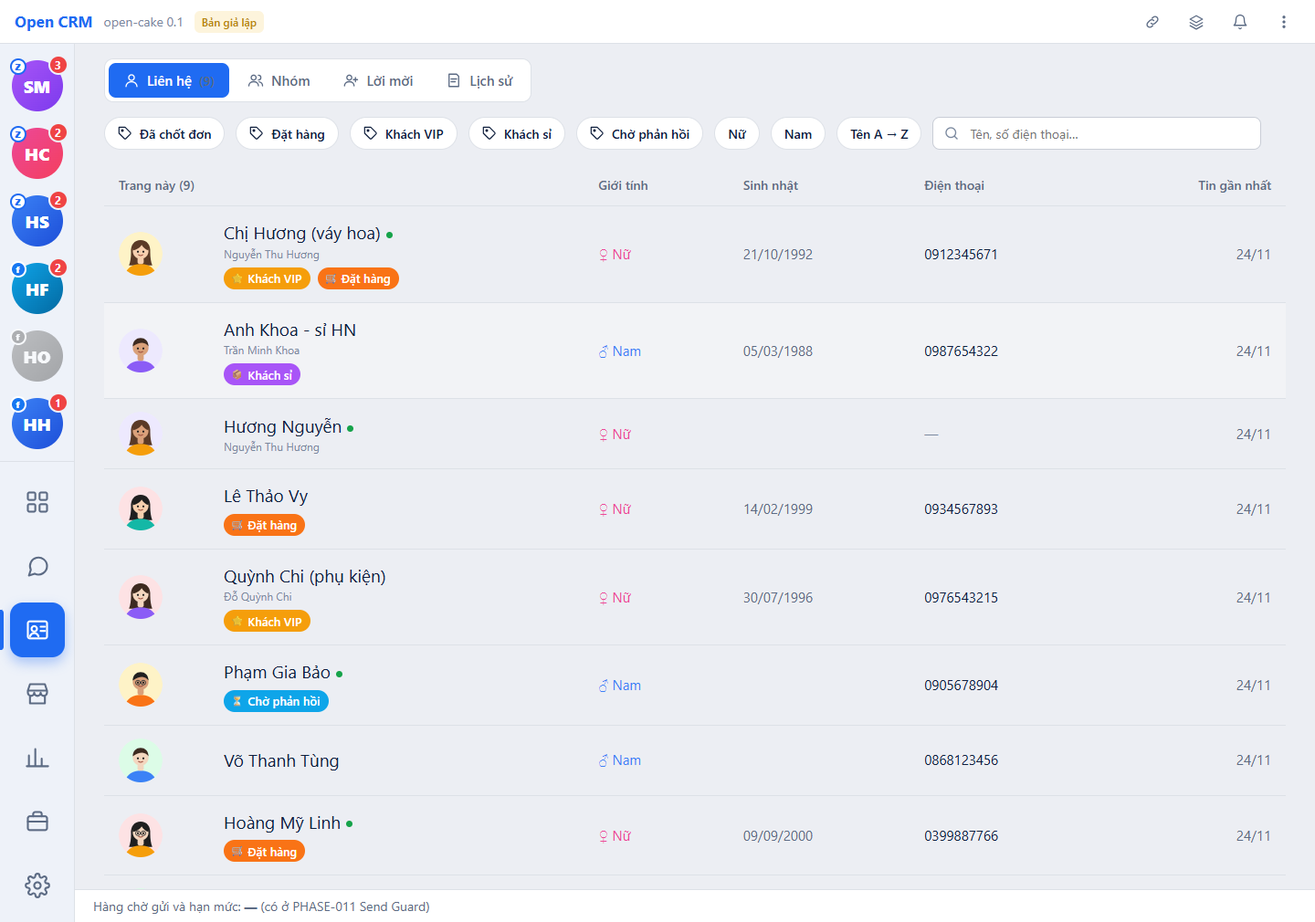
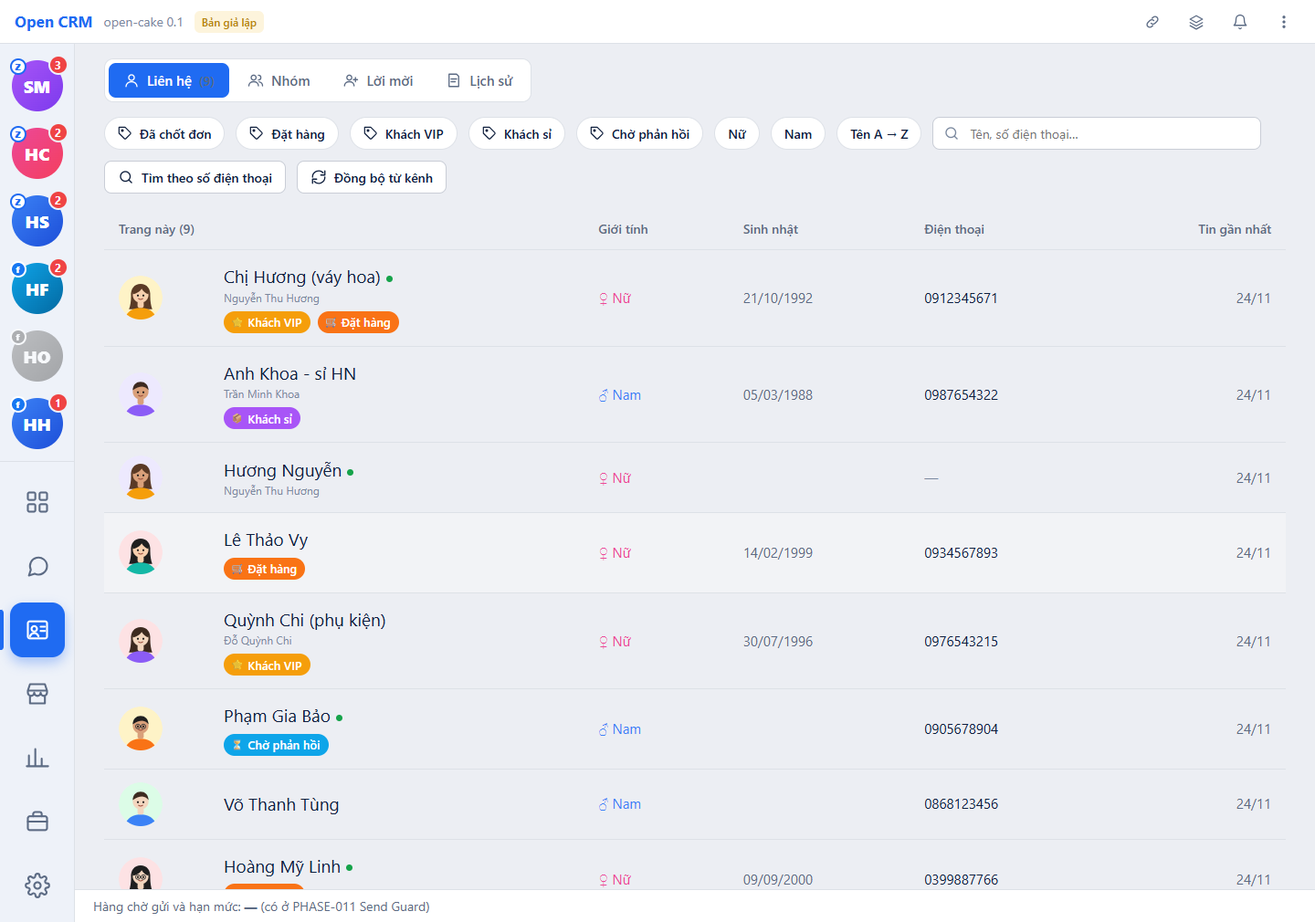
feat(KN K2b-3 · open-cake): lệnh kênh 0.2 — thu hồi, thả tim, đồng bộ danh bạ, tìm theo SĐT
- bizcity_channel_command@1 0.2 (chỉ thêm): message.revoke, reaction.add, directory.sync, contact.find; target.externalMessageId, options.reaction / phone
- 4 action (cake.message.revoke / react, cake.directory.sync, cake.contact.find) qua hàng chờ channel_commands — cùng gửi lại / bỏ cuộc với message.send; cùng khoá ⇒ không gửi trùng
- thu hồi chỉ tin của shop đã có mã kênh; xác nhận bằng touch revoked quay về (sổ giữ nguyên)
- giao diện: menu ❤ / Thu hồi trên tin (xác nhận trong sheet), Danh bạ › Đồng bộ từ kênh / Tìm theo SĐT; giả lập cùng luật
- risk thu hồi = medium (ngang gửi tin) ⇒ không nâng quyền cake:inbox-lap; bizcity.authz.json không đổi
- 156/156 test, selfcheck 9/9; ảnh app-kn-tin-thao-tac / kn-thu-hoi-xac-nhan / kn-dong-bo-danh-ba

diff --git a/apps/api/src/care/channel-ops.ts b/apps/api/src/care/channel-ops.ts
@@ -1,0 +1,58 @@
+// Copyright (c) 2026 Johnny Chu (Chu Hoàng Anh) / BizCity. GPL-2.0-or-later. See LICENSE.
+// @bizcity-layer api
+// [2026-11-26 08:44 PM Johnny Chu - Chu Hoàng Anh] KN K2b-3 — năng lực kênh đủ (25-KET-NOI-KENH §3b): thu hồi tin của shop, thả cảm xúc, đồng bộ danh bạ, tìm người theo SĐT.
+//   Mỗi việc = một lệnh bizcity_channel_command@1 0.2 vào hàng chờ channel_commands (cùng dispatch / gửi lại / bỏ cuộc với message.send). Không đổi dữ liệu tại chỗ:
+//   kết quả thật về bằng bizcity_touch@1 — thu hồi (content.type revoked), hồ sơ / nhóm (profile.updated, thread.updated backfill) — kernel đã xử lý (K2b-1).
+import type { Db } from '@bizcity/platform/db/client';
+import { ChannelCommandSchema, type ChannelCommand } from '@open-cake/contracts';
+import { failure, type Ctx, type Handler } from '../runtime.js';
+import { notifyChanged } from '../stream.js';
+import { assertConversationVisible } from './scope.js';
+import { CAPS, accountOf, dispatch, hub } from './send.js';
+
+type Acc = Awaited<ReturnType<typeof accountOf>>;
+const unix = () => Math.floor(Date.now() / 1000);
+
+/** Xếp một lệnh vào hàng chờ + gửi ngay. Cùng khoá đã có ⇒ trả trạng thái cũ, không gửi lần hai (Hub / máy kết nối chống trùng theo khoá). */
+async function queueCommand(ctx: Ctx, acc: Acc, operation: ChannelCommand['operation'], key: string, target: Partial<ChannelCommand['target']>, options: Partial<ChannelCommand['options']>) {
+  const { tx, tenantId } = ctx;
+  hub(); // chưa nối Hub ⇒ NOT_READY ngay
+  const old = await tx.selectFrom('channel_commands').select(['state']).where('tenant_id', '=', tenantId).where('command_key', '=', key).executeTakeFirst();
+  if (old) return { commandKey: key, state: old.state as 'accepted' };
+  const body = ChannelCommandSchema.parse({
+    contract: 'bizcity_channel_command@1', operation, idempotencyKey: key, channel: acc.channel,
+    channelAccount: { cellRef: acc.cell_ref, externalAccountId: acc.external_account_id }, target: { externalThreadId: null, anchor: null, ...target },
+    content: { type: 'none', text: null, attachments: [] }, options: { messageTag: null, quoteExternalMessageId: null, ...options }, requestedBy: { kind: 'user', id: ctx.userId ?? ctx.actor },
+  });
+  const created_at = new Date();
+  await tx.insertInto('channel_commands').values({ tenant_id: tenantId, command_key: key, operation, channel_account_id: acc.channel_account_id, message_id: null, body: JSON.stringify(body), created_by: ctx.actor, created_at }).execute();
+  const state = await dispatch(tx, { tenant_id: tenantId, command_key: key, message_id: null, body, attempts: 0, created_at });
+  await notifyChanged(tx, tenantId, CAPS);
+  return { commandKey: key, state };
+}
+
+/** Tin + hội thoại + tài khoản của một tin (đã kiểm quyền thấy hội thoại). */
+async function messageCtx(ctx: Ctx, messageId: string) {
+  const m = await ctx.tx.selectFrom('messages as m').innerJoin('conversations as v', 'v.conversation_id', 'm.conversation_id')
+    .select(['m.message_id', 'm.touch_id', 'm.direction', 'm.external_message_id', 'm.revoked_at', 'm.conversation_id', 'v.external_thread_id', 'v.channel_account_id'])
+    .where('m.tenant_id', '=', ctx.tenantId).where('m.message_id', '=', messageId).executeTakeFirst();
+  if (!m) throw failure('NOT_FOUND', 'Không tìm thấy tin.');
+  await assertConversationVisible(ctx, m.conversation_id);
+  if (m.external_message_id.startsWith('cake:')) throw failure('VALIDATION_ERROR', 'Tin chưa có mã của kênh (đang gửi) — đợi kênh báo đã gửi rồi thử lại.');
+  return { m, acc: await accountOf(ctx.tx as Db, ctx.tenantId, m.channel_account_id) };
+}
+
+export const channelOpHandlers: Record<string, Handler> = {
+  'cake.message.revoke': async (ctx, i) => {
+    const { m, acc } = await messageCtx(ctx, i.messageId);
+    if (m.direction !== 'out') throw failure('VALIDATION_ERROR', 'Chỉ thu hồi được tin của shop.');
+    if (m.revoked_at) throw failure('CONFLICT', 'Tin đã được thu hồi.');
+    return queueCommand(ctx, acc, 'message.revoke', `cake:${m.touch_id}:revoke:1`, { externalThreadId: m.external_thread_id, externalMessageId: m.external_message_id }, {});
+  },
+  'cake.message.react': async (ctx, i) => {
+    const { m, acc } = await messageCtx(ctx, i.messageId);
+    return queueCommand(ctx, acc, 'reaction.add', `cake:${m.touch_id}:react:${unix()}`, { externalThreadId: m.external_thread_id, externalMessageId: m.external_message_id }, { reaction: i.reaction });
+  },
+  'cake.directory.sync': async (ctx, i) => queueCommand(ctx, await accountOf(ctx.tx as Db, ctx.tenantId, i.channelAccountId), 'directory.sync', `cake:0:directory_sync:${unix()}`, {}, {}),
+  'cake.contact.find': async (ctx, i) => queueCommand(ctx, await accountOf(ctx.tx as Db, ctx.tenantId, i.channelAccountId), 'contact.find', `cake:0:contact_find:${unix()}`, {}, { phone: i.phone }),
+};

diff --git a/apps/api/test/send.http.test.ts b/apps/api/test/send.http.test.ts
@@ -148,4 +148,44 @@ describe.skipIf(!url)('tin ra kênh qua Hub (open-cake ⇄ Hub giả)', () => {
     hub.mode = 'down';
     expect((await call('POST', `/api/v1/channels/${conv.accountId}/test`, {})).json().error.details.reason).toBe('CAKE_CHANNEL_NOT_CONNECTED');
   });
+
+  // [2026-11-26 08:44 PM Johnny Chu - Chu Hoàng Anh] KN K2b-3 — lệnh 0.2: thu hồi / thả cảm xúc / đồng bộ danh bạ / tìm theo SĐT qua hàng chờ; thu hồi xác nhận bằng touch quay về
+  it('lệnh 0.2: thu hồi tin của shop (một khoá, không gửi trùng; touch revoked ⇒ tin đã thu hồi), thả cảm xúc, đồng bộ danh bạ, tìm theo SĐT; chặn thu hồi tin khách / tin chưa có mã kênh', { timeout: 30_000 }, async () => {
+    hub.mode = 'ok'; hub.got = [];
+    const own = (await sql("SELECT message_id, touch_id FROM messages WHERE external_message_id = 'm_out_1'")).rows[0]!;
+    const r1 = await call('POST', `/api/v1/messages/${own.message_id}/revoke`, {});
+    expect(r1.statusCode).toBe(200);
+    expect(r1.json().data).toEqual({ commandKey: `cake:${own.touch_id}:revoke:1`, state: 'accepted' });
+    expect(parseCmd(hub.got[0]!.body)).toMatchObject({ operation: 'message.revoke', target: { externalThreadId: conv.thread, externalMessageId: 'm_out_1' } });
+    expect((await call('POST', `/api/v1/messages/${own.message_id}/revoke`, {})).json().data.state).toBe('accepted');
+    expect(hub.got).toHaveLength(1); // cùng khoá ⇒ không gửi lần hai
+    // máy kết nối thu hồi xong ⇒ touch v2 revoked ⇒ tin đã thu hồi, sổ giữ nguyên
+    const before = (await sql('SELECT count(*)::int n FROM touch_ledger')).rows[0]!.n;
+    const rv = JSON.stringify({
+      contract: 'bizcity_touch@1', eventId: '01JDAB0000000000000000R001', type: 'message.sent', occurredAt: new Date().toISOString(), source: 'cell:kiem-thu',
+      docKey: `zalo_personal|${conv.account}|${conv.thread}|m_out_1`, version: 3, channel: 'zalo_personal', channelAccount: { externalAccountId: conv.account, kind: 'personal' },
+      thread: { externalThreadId: conv.thread, kind: 'dm', anchor: null }, sender: { scope: 'global', externalId: conv.account, displayName: 'Shop', avatarRef: null }, direction: 'outbound',
+      content: { type: 'revoked', text: null, attachments: [] }, hints: {}, encryption: { e2ee: false, decryptedOnCell: false }, delivery: null, history: { backfill: false, cursor: null },
+    });
+    expect((await app.inject({ method: 'POST', url: '/ingress/v1/touch', payload: rv, headers: { 'content-type': 'application/json', authorization: `Bearer ${HUB.key}`, 'x-bizcity-contract': 'bizcity_touch@1', 'x-bizcity-signature': sign(HUB.secret, rv) } })).statusCode).toBe(200);
+    expect((await sql('SELECT body, revoked_at FROM messages WHERE message_id = $1', [own.message_id])).rows[0]).toMatchObject({ body: '', revoked_at: expect.any(Date) });
+    expect((await sql('SELECT count(*)::int n FROM touch_ledger')).rows[0]!.n).toBe(before);
+    expect((await call('POST', `/api/v1/messages/${own.message_id}/revoke`, {})).statusCode).toBe(409); // đã thu hồi
+    // tin của khách ⇒ không thu hồi được; tin còn khoá cake: ⇒ chưa có mã kênh
+    const inMsg = (await sql("SELECT message_id FROM messages WHERE direction = 'in' AND conversation_id = $1 LIMIT 1", [conv.id])).rows[0]!;
+    expect((await call('POST', `/api/v1/messages/${inMsg.message_id}/revoke`, {})).statusCode).toBe(400);
+    const pending = (await sql("SELECT message_id FROM messages WHERE external_message_id LIKE 'cake:%' LIMIT 1")).rows[0];
+    if (pending) expect((await call('POST', `/api/v1/messages/${pending.message_id}/revoke`, {})).statusCode).toBe(400);
+    // thả cảm xúc lên tin của khách
+    hub.got = [];
+    expect((await call('POST', `/api/v1/messages/${inMsg.message_id}/react`, { reaction: '❤' })).statusCode).toBe(200);
+    expect(parseCmd(hub.got[0]!.body)).toMatchObject({ operation: 'reaction.add', options: { reaction: '❤' } });
+    // đồng bộ danh bạ + tìm theo SĐT
+    hub.got = [];
+    expect((await call('POST', `/api/v1/channels/${conv.accountId}/directory-sync`, {})).json().data.state).toBe('accepted');
+    expect((await call('POST', `/api/v1/channels/${conv.accountId}/find`, { phone: '0909123456' })).json().data.state).toBe('accepted');
+    expect(hub.got.map((g) => (parseCmd(g.body) as { operation: string }).operation)).toEqual(['directory.sync', 'contact.find']);
+    expect(parseCmd(hub.got[1]!.body)).toMatchObject({ options: { phone: '0909123456' } });
+    expect((await call('POST', `/api/v1/channels/${conv.accountId}/find`, { phone: 'abc' })).statusCode).toBe(400);
+  });
 });

diff --git a/apps/web/src/screens/contacts-channel.tsx b/apps/web/src/screens/contacts-channel.tsx
@@ -1,0 +1,46 @@
+// Copyright (c) 2026 Johnny Chu (Chu Hoàng Anh) / BizCity. GPL-2.0-or-later. See LICENSE.
+// @bizcity-layer web
+// [2026-11-26 08:46 PM Johnny Chu - Chu Hoàng Anh] KN K2b-3 — mockup ⑤: Danh bạ › "Đồng bộ từ kênh" (bạn bè + nhóm, tên + ảnh) và "Tìm theo số điện thoại".
+//   Chỉ gửi lệnh; khách / nhóm hiện trong danh bạ khi kênh trả về (touch backfill — không thông báo, không tự trả lời). Tài khoản chưa kết nối không có trong danh sách chọn.
+import { useState } from 'react';
+import { channelList, contactFind, directorySync } from '@open-cake/contracts';
+import { useAction, useQueryAction } from '@open-cake/action-client';
+import { Btn, CHANNEL_LABEL, Ic, Sheet } from '@open-cake/ui-kit';
+import { ActionErrorNote } from '../app/QueryView.js';
+import { useCan } from '../app/permissions.js';
+import { t } from '../i18n/index.js';
+
+const L = t.inbox.contacts.channel;
+const PERSONAL = ['zalo_personal', 'facebook_personal'];
+
+export function ContactsChannelTools() {
+  const accs = (useQueryAction(channelList, {}).data ?? []).filter((a) => a.status === 'connected' && PERSONAL.includes(a.channel));
+  const sync = useAction(directorySync);
+  const find = useAction(contactFind);
+  const canSync = useCan('cake:channels-lap');
+  const canFind = useCan('cake:inbox-lap');
+  const [open, setOpen] = useState<'sync' | 'find' | null>(null);
+  const [acc, setAcc] = useState('');
+  const [phone, setPhone] = useState('');
+  const [done, setDone] = useState(false);
+  const accountId = acc || accs[0]?.channelAccountId || '';
+  const close = () => { setOpen(null); setDone(false); setPhone(''); };
+  const run = () => (open === 'sync' ? sync.mutate({ channelAccountId: accountId }, { onSuccess: () => setDone(true) }) : find.mutate({ channelAccountId: accountId, phone }, { onSuccess: () => setDone(true) }));
+  if (!accs.length) return null;
+  return (
+    <>
+      {canFind && <Btn out sm onClick={() => setOpen('find')}><Ic.search />{L.find}</Btn>}
+      {canSync && <Btn out sm onClick={() => setOpen('sync')}><Ic.refresh />{L.sync}</Btn>}
+      <Sheet open={open !== null} onClose={close} icon={open === 'sync' ? Ic.refresh : Ic.search} title={open === 'sync' ? L.sync : L.find} sub={open === 'sync' ? L.syncSub : L.findSub}
+        footer={<><Btn onClick={close}>{L.close}</Btn>{!done && <Btn pri disabled={!accountId || (open === 'find' && !phone) || sync.isPending || find.isPending} onClick={run}>{open === 'sync' ? L.sync : L.find}</Btn>}</>}>
+        <dl className="kv">
+          <dt>{L.account}</dt>
+          <dd><select className="input sm" style={{ width: '100%' }} value={accountId} onChange={(e) => setAcc(e.target.value)}>{accs.map((a) => <option key={a.channelAccountId} value={a.channelAccountId}>{a.label} · {CHANNEL_LABEL[a.channel] ?? a.channel}</option>)}</select></dd>
+          {open === 'find' && <><dt>{L.phone}</dt><dd><input className="input sm" style={{ width: '100%' }} inputMode="tel" value={phone} onChange={(e) => setPhone(e.target.value.replace(/[^\d+]/g, ''))} placeholder="0909 123 456" /></dd></>}
+        </dl>
+        {done && <div className="note sm mt16">{open === 'sync' ? L.syncDone : L.findDone}</div>}
+        <ActionErrorNote error={sync.error ?? find.error} />
+      </Sheet>
+    </>
+  );
+}

diff --git a/packages/contracts/src/cake/channel-ops.ts b/packages/contracts/src/cake/channel-ops.ts
@@ -1,0 +1,38 @@
+// Copyright (c) 2026 Johnny Chu (Chu Hoàng Anh) / BizCity. GPL-2.0-or-later. See LICENSE.
+// @bizcity-layer contracts
+// [2026-11-26 08:43 PM Johnny Chu - Chu Hoàng Anh] KN K2b-3 — năng lực kênh đủ (docs/architecture/25-KET-NOI-KENH.md §3b), mockup ⑤ ⑥ đã duyệt:
+//   thu hồi tin của shop, thả cảm xúc, đồng bộ danh bạ (bạn bè + nhóm, tên + ảnh), tìm người theo SĐT. Mỗi action = một lệnh bizcity_channel_command@1 0.2
+//   vào hàng chờ channel_commands (cùng đường gửi lại với message.send); kết quả thật về bằng bizcity_touch@1 (revoked / profile.updated / thread.updated).
+import { z } from 'zod';
+import { defineActionSpec } from '../base/action.js';
+import { ChannelAccountIdSchema, MessageIdSchema } from './channel.js';
+
+export const CommandQueuedSchema = z.object({
+  commandKey: z.string(),
+  /** accepted = Hub / máy kết nối đã nhận; queued = chưa tới, đang gửi lại; rejected = bị từ chối hẳn. */
+  state: z.enum(['accepted', 'queued', 'rejected', 'given_up']),
+});
+export type CommandQueued = z.infer<typeof CommandQueuedSchema>;
+
+export const messageRevoke = defineActionSpec({
+  id: 'cake.message.revoke', capability: 'cake.message.send', title: 'Thu hồi tin của shop', kind: 'command',
+  input: z.object({ messageId: MessageIdSchema }), output: CommandQueuedSchema, permission: 'cake:inbox-lap', risk: 'medium', idempotent: true, // ngang message.send — không nâng quyền trả lời tin của nhân viên; giao diện vẫn xác nhận
+  reasons: ['CAKE_CHANNEL_NOT_CONNECTED'], expose: { rest: 'POST /api/v1/messages/:messageId/revoke', ui: true },
+});
+export const messageReact = defineActionSpec({
+  id: 'cake.message.react', capability: 'cake.message.send', title: 'Thả cảm xúc', kind: 'command',
+  input: z.object({ messageId: MessageIdSchema, reaction: z.string().min(1).max(8) }), output: CommandQueuedSchema, permission: 'cake:inbox-lap', risk: 'low', idempotent: true,
+  reasons: ['CAKE_CHANNEL_NOT_CONNECTED'], expose: { rest: 'POST /api/v1/messages/:messageId/react', ui: true },
+});
+export const directorySync = defineActionSpec({
+  id: 'cake.directory.sync', capability: 'cake.channel.manage', title: 'Đồng bộ danh bạ từ kênh', kind: 'command',
+  input: z.object({ channelAccountId: ChannelAccountIdSchema }), output: CommandQueuedSchema, permission: 'cake:channels-lap', risk: 'low', idempotent: true,
+  reasons: ['CAKE_CHANNEL_NOT_CONNECTED'], expose: { rest: 'POST /api/v1/channels/:channelAccountId/directory-sync', ui: true },
+});
+export const contactFind = defineActionSpec({
+  id: 'cake.contact.find', capability: 'cake.contact.read', title: 'Tìm người trên kênh theo số điện thoại', kind: 'command',
+  input: z.object({ channelAccountId: ChannelAccountIdSchema, phone: z.string().regex(/^\+?[0-9]{8,15}$/, 'số điện thoại 8–15 chữ số') }), output: CommandQueuedSchema,
+  permission: 'cake:inbox-lap', risk: 'low', idempotent: true, reasons: ['CAKE_CHANNEL_NOT_CONNECTED'], expose: { rest: 'POST /api/v1/channels/:channelAccountId/find', ui: true },
+});
+
+export const CHANNEL_OP_ACTIONS = [messageRevoke, messageReact, directorySync, contactFind] as const;

diff --git a/packages/contracts/src/cake/channel-command.ts b/packages/contracts/src/cake/channel-command.ts
@@ -8,6 +8,8 @@ import { AnchorSchema, AttachmentSchema } from './entities.js';
 
 export const CHANNEL_OPERATIONS = [
   'message.send', 'comment.reply', 'comment.private_reply', 'thread.mark_read', 'history.sync', 'account.test',
+  // [2026-11-26 08:43 PM Johnny Chu - Chu Hoàng Anh] KN K2b-3 — 0.2 (chỉ thêm): thu hồi, thả cảm xúc, đồng bộ danh bạ, tìm người theo SĐT (25-KET-NOI-KENH §3b)
+  'message.revoke', 'reaction.add', 'directory.sync', 'contact.find',
 ] as const;
 
 /** `cake:<touch_id>:<việc>:<lần>` — lần gửi lại do người bấm thì tăng số. */
@@ -19,13 +21,15 @@ export const ChannelCommandSchema = z.object({
   idempotencyKey: z.string().regex(COMMAND_KEY_RE),
   channel: AccountChannelSchema,
   channelAccount: z.object({ cellRef: z.string(), externalAccountId: z.string() }).strict(),
-  target: z.object({ externalThreadId: z.string().nullable(), anchor: AnchorSchema.nullable() }).strict(),
+  target: z.object({ externalThreadId: z.string().nullable(), anchor: AnchorSchema.nullable(), externalMessageId: z.string().nullable().optional() }).strict(),
   content: z.object({ type: z.enum(['text', 'image', 'file', 'none']), text: z.string().max(5000).nullable(), attachments: z.array(AttachmentSchema) }).strict(),
   options: z.object({
     messageTag: z.string().nullable(),
     quoteExternalMessageId: z.string().nullable(),
     cursor: z.string().nullable().optional(),
     limit: z.number().int().min(1).max(200).optional(),
+    reaction: z.string().min(1).max(8).optional(),
+    phone: z.string().regex(/^\+?[0-9]{8,15}$/).optional(),
   }).strict(),
   /** chỉ là siêu dữ liệu bằng chứng — Hub không cấp quyền dựa trên trường này. */
   requestedBy: z.object({ kind: z.enum(['user', 'ai', 'system']), id: z.string() }).strict(),
@@ -35,6 +39,10 @@ export const ChannelCommandSchema = z.object({
   const needComment = c.operation === 'comment.reply' || c.operation === 'comment.private_reply';
   if (needComment && !c.target.anchor?.commentId) ctx.addIssue({ code: 'custom', path: ['target', 'anchor'], message: `${c.operation} cần anchor.commentId` });
   if (needComment && c.channel !== 'facebook_page') ctx.addIssue({ code: 'custom', path: ['channel'], message: 'trả lời comment chỉ qua tài khoản facebook_page' });
+  const onMessage = c.operation === 'message.revoke' || c.operation === 'reaction.add';
+  if (onMessage && (!c.target.externalThreadId || !c.target.externalMessageId)) ctx.addIssue({ code: 'custom', path: ['target'], message: `${c.operation} cần externalThreadId + externalMessageId` });
+  if (c.operation === 'reaction.add' && !c.options.reaction) ctx.addIssue({ code: 'custom', path: ['options', 'reaction'], message: 'reaction.add cần options.reaction' });
+  if (c.operation === 'contact.find' && !c.options.phone) ctx.addIssue({ code: 'custom', path: ['options', 'phone'], message: 'contact.find cần options.phone' });
   if (c.operation === 'message.send' && !c.content.text && c.content.attachments.length === 0) {
     ctx.addIssue({ code: 'custom', path: ['content'], message: 'tin rỗng' });
   }

diff --git a/apps/api/src/care/send.ts b/apps/api/src/care/send.ts
@@ -18,9 +18,9 @@ import { assertConversationVisible } from './scope.js';
 
 export const HUB_COMMANDS_PATH = '/channel/v1/commands';
 const GIVE_UP_MS = 10 * 60_000;
-const CAPS = ['cake.conversation.manage', 'cake.message.send'];
+export const CAPS = ['cake.conversation.manage', 'cake.message.send'];
 
-function hub() {
+export function hub() {
   const url = process.env.CAKE_HUB_URL ?? '', key = process.env.CAKE_HUB_SITE_KEY ?? '', secret = process.env.CAKE_HUB_SECRET ?? '';
   if (!url || key.length < 16 || secret.length < 32) throw failure('NOT_READY', 'Máy chủ chưa nối Hub kênh (CAKE_HUB_URL, CAKE_HUB_SITE_KEY, CAKE_HUB_SECRET).');
   return { url: url.replace(/\/+$/, ''), key, secret };
@@ -41,10 +41,10 @@ async function callHub(cmd: ChannelCommand): Promise<{ status: number; error: st
   } catch { return null; } // nuot-loi: mạng / hết giờ ⇒ queued (gửi lại cùng khoá)
 }
 
-type CmdRow = { tenant_id: string; command_key: string; message_id: string | null; body: unknown; attempts: number; created_at: Date };
+export type CmdRow = { tenant_id: string; command_key: string; message_id: string | null; body: unknown; attempts: number; created_at: Date };
 
 /** Gửi một lệnh trong hàng chờ và ghi kết quả. */
-async function dispatch(tx: Db, r: CmdRow): Promise<'accepted' | 'rejected' | 'queued' | 'given_up'> {
+export async function dispatch(tx: Db, r: CmdRow): Promise<'accepted' | 'rejected' | 'queued' | 'given_up'> {
   const res = await callHub(r.body as ChannelCommand);
   const now = new Date();
   const where = <Q extends { where: (...a: any[]) => Q }>(q: Q) => q.where('tenant_id', '=', r.tenant_id).where('command_key', '=', r.command_key); // eslint-disable-line @typescript-eslint/no-explicit-any
@@ -81,7 +81,7 @@ export async function retryChannelCommands(limit = 50): Promise<number> {
   return due.length;
 }
 
-async function accountOf(tx: Db, tenantId: string, channelAccountId: string) {
+export async function accountOf(tx: Db, tenantId: string, channelAccountId: string) {
   const a = await tx.selectFrom('channel_accounts').select(['channel_account_id', 'channel', 'external_account_id', 'cell_ref', 'status']).where('tenant_id', '=', tenantId).where('channel_account_id', '=', channelAccountId).executeTakeFirst();
   if (!a) throw failure('NOT_FOUND', 'Không tìm thấy tài khoản kênh.');
   if (a.status !== 'connected' || !a.cell_ref) throw cakeError('CAKE_CHANNEL_NOT_CONNECTED');

diff --git a/apps/api/src/server.ts b/apps/api/src/server.ts
@@ -26,7 +26,8 @@ import { failure, registerActions } from './runtime.js';
 import { orderHandlers, reconcileSentOrders, retryQueuedOrders } from './orders/service.js'; // [2026-11-25 06:45 PM Johnny Chu - Chu Hoàng Anh] PHASE-010 — luồng đơn xuyên app
 import { linkHandlers } from './orders/link.js';
 import { partnerHandlers } from './orders/partner.js'; // [2026-11-26 12:05 PM Johnny Chu - Chu Hoàng Anh] PHASE-010 S010-2/3
-import { retryChannelCommands, sendHandlers } from './care/send.js'; // [2026-11-26 12:54 AM Johnny Chu - Chu Hoàng Anh] PHASE-006 S006-3 — tin ra kênh qua Hub
+import { retryChannelCommands, sendHandlers } from './care/send.js';
+import { channelOpHandlers } from './care/channel-ops.js'; // [2026-11-26 08:44 PM Johnny Chu - Chu Hoàng Anh] KN K2b-3 // [2026-11-26 12:54 AM Johnny Chu - Chu Hoàng Anh] PHASE-006 S006-3 — tin ra kênh qua Hub
 import { registerPosEvents } from './orders/pos-events.js';
 import { registerDiagnostics } from './care/diagnose.js'; // [2026-11-26 02:10 PM Johnny Chu - Chu Hoàng Anh] PHASE-005 S005-7
 import { cakeLoggerOptions, genReqId, registerObservability } from './observability.js';
@@ -53,7 +54,7 @@ export async function buildApp(opts: { tenant?: string; logger?: boolean; hub?: 
     return { ok: true, data: { schema: 'ready' } };
   });
   // [2026-11-24 08:34 PM Johnny Chu - Chu Hoàng Anh] PHASE-007 — thêm 6 action đọc hộp thư / danh bạ / Contact 360 + cổng nhận bizcity_touch@1 của Hub.
-  const handlers = { ...catalogHandlers, ...inboxHandlers, ...careCommandHandlers, ...memberHandlers, ...staffHandlers, ...apiKeyHandlers, ...recordHandlers, ...orderHandlers, ...linkHandlers, ...partnerHandlers, ...sendHandlers };
+  const handlers = { ...catalogHandlers, ...inboxHandlers, ...careCommandHandlers, ...memberHandlers, ...staffHandlers, ...apiKeyHandlers, ...recordHandlers, ...orderHandlers, ...linkHandlers, ...partnerHandlers, ...sendHandlers, ...channelOpHandlers };
   registerActions(app, ALL_ACTIONS, handlers);
   // [2026-11-24 09:42 PM Johnny Chu - Chu Hoàng Anh] PHASE-004 S004-6 — tra một bằng chứng theo meta.receipt.evidenceId (trong đơn vị; không có nội dung, chỉ băm).
   app.get<{ Params: { id: string } }>('/api/v1/evidence/:id', { preHandler: requirePermission('reports:read') }, async (req) => {

diff --git a/apps/web/src/i18n/vi/inbox.ts b/apps/web/src/i18n/vi/inbox.ts
@@ -15,7 +15,9 @@ export const inbox = {
   },
   info: { channels: 'Kênh của khách này', tags: 'Nhãn', open360: 'Mở Contact 360' },
   chat: {
-    revoked: 'Tin nhắn đã được thu hồi', quoteLabel: 'Trả lời', members: (n: number) => `${n} thành viên`, // [2026-11-26 08:35 PM Johnny Chu - Chu Hoàng Anh] KN K2b-2
+    revoked: 'Tin nhắn đã được thu hồi', quoteLabel: 'Trả lời', members: (n: number) => `${n} thành viên`,
+    actions: 'Thao tác với tin', react: 'Thả tim', revoke: 'Thu hồi', revokeTitle: 'Thu hồi tin này?', cancel: 'Huỷ', // [2026-11-26 08:46 PM Johnny Chu - Chu Hoàng Anh] KN K2b-3
+    revokeSub: 'Tin sẽ bị gỡ ở Zalo / Facebook của khách. Open CRM chỉ ghi "đã thu hồi" khi kênh báo lại.', // [2026-11-26 08:35 PM Johnny Chu - Chu Hoàng Anh] KN K2b-2
     image: 'Hình ảnh',
     tapToDownload: 'Nhấn để tải',
     delivery: { accepted: 'đang gửi', unknown: 'chưa rõ đã gửi', failed: 'gửi lỗi', delivered: 'đã nhận', read: 'đã xem' } as Record<string, string>,
@@ -47,6 +49,13 @@ export const inbox = {
     hint: '↑↓ chọn · Enter chèn vào ô soạn · chỉ hiện hàng "Bán trong CRM" có giá',
   },
   contacts: {
+    // [2026-11-26 08:46 PM Johnny Chu - Chu Hoàng Anh] KN K2b-3 — mockup ⑤
+    channel: {
+      sync: 'Đồng bộ từ kênh', syncSub: 'Lấy bạn bè và nhóm (tên, ảnh) của tài khoản kênh vào danh bạ.', find: 'Tìm theo số điện thoại', findSub: 'Tìm người dùng số này trên Zalo / Facebook của tài khoản kênh.',
+      account: 'Tài khoản kênh', phone: 'Số điện thoại', close: 'Đóng',
+      syncDone: 'Đã gửi lệnh. Khách và nhóm sẽ hiện dần trong danh bạ khi kênh trả về — không bắn thông báo, không tự trả lời.',
+      findDone: 'Đã gửi lệnh. Nếu số này có trên kênh, khách hiện trong danh bạ với số điện thoại "đã xác minh".',
+    },
     tabs: { contacts: 'Liên hệ', groups: 'Nhóm', invites: 'Lời mời', history: 'Lịch sử' },
     /** Giá trị giới tính là DỮ LIỆU (meta cake.contact.gender) — so khớp nguyên văn. */
     female: 'Nữ',

diff --git a/apps/web/src/screens/message-actions.tsx b/apps/web/src/screens/message-actions.tsx
@@ -1,0 +1,35 @@
+// Copyright (c) 2026 Johnny Chu (Chu Hoàng Anh) / BizCity. GPL-2.0-or-later. See LICENSE.
+// @bizcity-layer web
+// [2026-11-26 08:46 PM Johnny Chu - Chu Hoàng Anh] KN K2b-3 — mockup ⑥: thao tác trên một tin (hiện khi rê chuột) — Thả ❤ · Thu hồi (chỉ tin của shop, có bước xác nhận R-CAKE-UI-3).
+//   Gửi lệnh qua máy chủ (cake.message.react / cake.message.revoke); tin chỉ thành "đã thu hồi" khi kênh báo lại (không tự đổi tại chỗ).
+import { useState } from 'react';
+import { messageReact, messageRevoke, type Message } from '@open-cake/contracts';
+import { useAction } from '@open-cake/action-client';
+import { Btn, Ic, Sheet } from '@open-cake/ui-kit';
+import { ActionErrorNote } from '../app/QueryView.js';
+import { useCan } from '../app/permissions.js';
+import { t } from '../i18n/index.js';
+
+const L = t.inbox.chat;
+
+export function MessageActions({ m }: { m: Message }) {
+  const can = useCan('cake:inbox-lap');
+  const react = useAction(messageReact);
+  const revoke = useAction(messageRevoke);
+  const [ask, setAsk] = useState(false);
+  if (!can || m.revokedAt) return null;
+  return (
+    <>
+      <div className="acts" role="toolbar" aria-label={L.actions}>
+        <button type="button" title={L.react} onClick={() => react.mutate({ messageId: m.messageId, reaction: '❤' })}>❤</button>
+        {m.direction === 'out' && <button type="button" className="danger" onClick={() => setAsk(true)}>{L.revoke}</button>}
+      </div>
+      <ActionErrorNote error={react.error} />
+      <Sheet open={ask} onClose={() => setAsk(false)} icon={Ic.x} title={L.revokeTitle} sub={L.revokeSub}
+        footer={<><Btn onClick={() => setAsk(false)}>{L.cancel}</Btn><Btn danger disabled={revoke.isPending} onClick={() => revoke.mutate({ messageId: m.messageId }, { onSuccess: () => setAsk(false) })}>{L.revoke}</Btn></>}>
+        <div className="note sm">{m.text || L.image}</div>
+        <ActionErrorNote error={revoke.error} />
+      </Sheet>
+    </>
+  );
+}

diff --git a/packages/action-client/src/mock/handlers-inbox.ts b/packages/action-client/src/mock/handlers-inbox.ts
@@ -77,6 +77,23 @@ export const inboxHandlers: Record<string, (s: Store, input: Any) => unknown> = 
     return paged(xs.slice(from, end), { nextCursor: from > 0 ? String(from) : null });
   },
   'cake.message.send': (s, i) => appendOut(s, i.conversationId, i.text, i.attachments, 'message'),
+  // [2026-11-26 08:46 PM Johnny Chu - Chu Hoàng Anh] KN K2b-3 — giả lập không có kênh thật ⇒ áp ngay điều kênh sẽ báo lại (thu hồi / thả tim)
+  'cake.message.revoke': (s, i) => {
+    const m = Object.values(s.messages).flat().find((x) => x.messageId === i.messageId);
+    if (!m) throw new ApiError({ code: 'NOT_FOUND', message: 'Không tìm thấy tin.' });
+    if (m.direction !== 'out') throw new ApiError({ code: 'VALIDATION_ERROR', message: 'Chỉ thu hồi được tin của shop.' });
+    if (m.revokedAt) throw new ApiError({ code: 'CONFLICT', message: 'Tin đã được thu hồi.' });
+    Object.assign(m, { revokedAt: iso(s.now()), text: '', quote: null, mentions: [] });
+    return { commandKey: `cake:0:revoke:${++s.seq}`, state: 'accepted' };
+  },
+  'cake.message.react': (s, i) => {
+    const m = Object.values(s.messages).flat().find((x) => x.messageId === i.messageId);
+    if (!m) throw new ApiError({ code: 'NOT_FOUND', message: 'Không tìm thấy tin.' });
+    m.reaction = i.reaction;
+    return { commandKey: `cake:0:react:${++s.seq}`, state: 'accepted' };
+  },
+  'cake.directory.sync': (s) => ({ commandKey: `cake:0:directory_sync:${++s.seq}`, state: 'accepted' }),
+  'cake.contact.find': (s) => ({ commandKey: `cake:0:contact_find:${++s.seq}`, state: 'accepted' }),
   'cake.message.draft': (s, i) => ({ draftId: `draft-${++s.seq}`, text: i.text }),
   'cake.comment.reply': (s, i) => {
     const c = conv(s, i.conversationId);

diff --git a/packages/ui-kit/src/chat.css b/packages/ui-kit/src/chat.css
@@ -76,6 +76,13 @@
 .dmsg .quote { border-left: 3px solid var(--primary); background: rgba(37,99,235,.06); padding: 6px 10px; border-radius: 6px; margin-bottom: 8px; font-size: 14px; color: var(--muted-foreground); }
 .dmsg .ment { color: var(--primary); font-weight: 600; background: var(--primary-soft); border-radius: 4px; padding: 0 3px; }
 .dmsg .bb.revoked { font-style: italic; color: var(--subtle-foreground); background: transparent; border-style: dashed; }
+/* [2026-11-26 08:46 PM Johnny Chu - Chu Hoàng Anh] KN K2b-3 — thao tác trên tin (hiện khi rê chuột) */
+.dmsg { position: relative; }
+.dmsg .acts { display: none; position: absolute; top: -36px; right: 0; gap: 2px; background: #fff; border: 1px solid var(--border); border-radius: 10px; box-shadow: var(--shadow); padding: 3px; z-index: 2; }
+.dmsg:not(.out) .acts { right: auto; left: 54px; }
+.dmsg:hover .acts, .dmsg .acts:focus-within { display: flex; }
+.dmsg .acts button { padding: 5px 10px; border-radius: 6px; font-size: 14px; }
+.dmsg .acts button:hover { background: var(--muted); } .dmsg .acts .danger { color: var(--destructive); }
 .dmsg .re { position: absolute; bottom: -14px; min-width: 30px; padding: 0 6px; white-space: nowrap; height: 26px; border-radius: 13px; background: #fff; border: 1px solid #e3e6eb; display: grid; place-items: center; font-size: 14px; }
 .dmsg .img { width: 440px; border-radius: 10px; overflow: hidden; background: #fff; border: 1px solid #c9dcfb; position: relative; }
 .dmsg .img .pic { height: 230px; background: #fde4ec; display: flex; align-items: flex-end; justify-content: center; gap: 18px; padding-bottom: 0; position: relative; }

diff --git a/apps/web/src/screens/Contacts.tsx b/apps/web/src/screens/Contacts.tsx
@@ -7,6 +7,7 @@ import { contactList } from '@open-cake/contracts';
 import { useQueryAction } from '@open-cake/action-client';
 import { ChannelAvatar, Chip, Face, Ic, Pager, Search, StatusBar, Tabs, Tag, TAG_LOOK } from '@open-cake/ui-kit';
 import { QueryView } from '../app/QueryView.js';
+import { ContactsChannelTools } from './contacts-channel.js'; // [2026-11-26 08:46 PM Johnny Chu - Chu Hoàng Anh] KN K2b-3
 import { ddmm, ddmmyyyy } from '../app/format.js';
 import { go, useRoute } from '../app/route.js';
 import { t } from '../i18n/index.js';
@@ -38,6 +39,7 @@ export function Contacts() {
         {[t.inbox.contacts.female, t.inbox.contacts.male].map((g) => <Chip key={g} on={gender === g} onClick={() => setQuery({ gender: gender === g ? null : g, page: null })}>{g}</Chip>)}
         <Chip on={sort === 'name'} onClick={() => setQuery({ sort: sort === 'name' ? null : 'name' })}>{t.inbox.contacts.sortName}</Chip>
         <Search placeholder={t.inbox.contacts.searchPh} sm style={{ width: 360 }} value={q} onChange={(v) => setQuery({ q: v, page: null })} />
+        <ContactsChannelTools />
       </div>
       <div className="grow" style={{ overflow: 'auto', padding: '0 32px' }}>
         <QueryView q={list} empty={{ title: t.inbox.contacts.emptyTitle, desc: t.inbox.contacts.emptyDesc }}>
